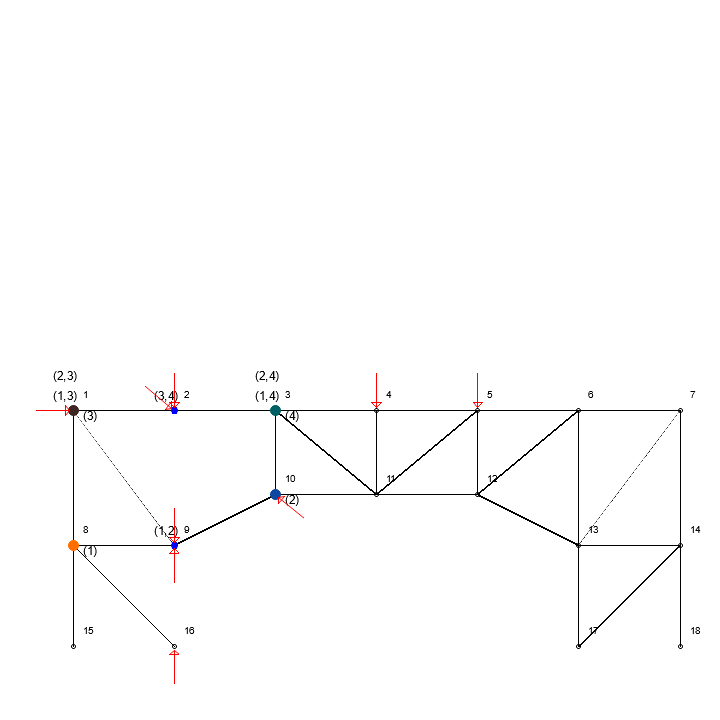
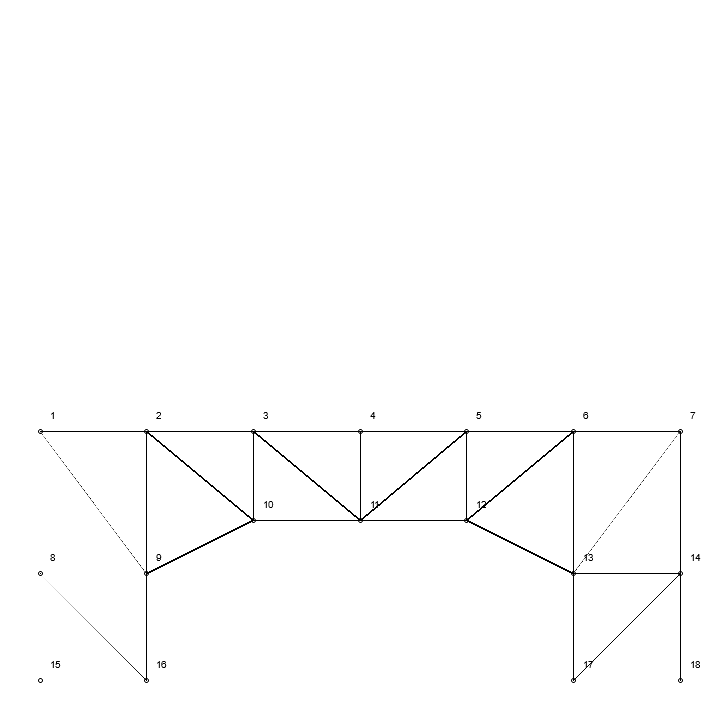
end of traglast

diff --git a/Traglast/src/main.rs b/Traglast/src/main.rs
@@ -1,7 +1,7 @@
 mod visualisation;
 
 use itertools::Itertools;
-use nalgebra::{Dynamic, OMatrix, OVector, SVector};
+use nalgebra::{ComplexField, Dynamic, OMatrix, OVector, SVector};
 use std::collections::hash_map::DefaultHasher;
 use std::fmt;
 use std::hash::{Hash, Hasher};
@@ -13,7 +13,7 @@ type DVectorf64 = OVector<f64, Dynamic>;
 type S2 = SVector<f64, 2>;
 type S3 = SVector<f64, 3>;
 
-const ZERO_THRESHHOLD: f64 = 1e-12;
+const ZERO_THRESHHOLD: f64 = 1e-10;
 
 fn calculate_hash<T: Hash>(t: &T) -> u64 {
     let mut s = DefaultHasher::new();
@@ -169,7 +169,7 @@ impl Pol {
         });
     }
     fn is_at_infinity(&self) -> bool {
-        return self.z.abs() < ZERO_THRESHHOLD;
+        return self.z.abs() < ZERO_THRESHHOLD && self.exists();
     }
     fn get_real_coordinates(&self) -> (f64, f64) {
         if self.z != 0.0 {
@@ -821,17 +821,14 @@ fn polplan(
         let anzahl_pole = rigid.len() - 1;
         // Vector der bekannten Schlussregeln
         if mat.shape().0 == 2 {
-            
-            let p1 = &mat[(0,0)];
-            let p2 = &mat[(0,1)];
-            let p3 = &mat[(1,1)];
+            let p1 = &mat[(0, 0)];
+            let p2 = &mat[(0, 1)];
+            let p3 = &mat[(1, 1)];
             if !Pol::are_collinear(p1, p2, p3) {
-                
                 polplan_join_bodies(0, 1, &mut rigid);
-                
+
                 continue 'se_big_loop;
             }
-            
         }
         let mut regeln = Vec::new();
         let mut already_done_rules = Vec::new();
@@ -843,7 +840,7 @@ fn polplan(
             //println!("{:?}",regeln);
             if regeln.len() <= 0 {
                 //Überprüfung der letzten regel
-                
+
                 // es gibt nur eine
                 break;
             }
@@ -936,6 +933,9 @@ fn kinematik(polplan: &DCoordMat) -> DVectorf64 {
     //let f = filter_erdscheibe_ans_ende(bodies, erdscheibe);
     //println!("{}", polplan);
     let anzahl_pole = polplan.shape().0;
+    if anzahl_pole == 0 {
+        return DVectorf64::zeros(0);
+    }
     // suchen einer geeigneten Spalte (in der keine nicht-bestimmten Pole sind)
     // Annahme, alle Diagonalwerte sind besetzt!
     let mut candidate = 0;
@@ -990,6 +990,12 @@ fn kinematik(polplan: &DCoordMat) -> DVectorf64 {
     b[candidate] = 1.0;
     let lu = matrix.full_piv_lu();
     lu.solve_mut(&mut b);
+    let max = b.max().abs().max(b.min().abs());
+    for i in 0..b.len() {
+        if b[i].abs() / max < ZERO_THRESHHOLD {
+            b[i] = 0.0;
+        }
+    }
 
     return b;
 }
@@ -1045,7 +1051,7 @@ fn displacements(
                 let dir_normal = S2::new(dir.y, -dir.x).normalize();
                 let trans_point = dir_normal * dist * kinematik[i];
 
-                if dist > 1e-12 {
+                if dist > ZERO_THRESHHOLD {
                     result[mapping.map_from(rigid_points[j])] = Point {
                         num: p_num,
                         name: p_name,
@@ -1098,11 +1104,13 @@ fn get_plastic_loading(
         let from_dis = dir.dot(&from_displace);
         let to_dis = dir.dot(&to_displace);
         let streckung = -from_dis + to_dis;
-
+        if streckung.abs() < ZERO_THRESHHOLD {
+            continue;
+        }
         let streckung = streckung.signum();
         let plastic_force = beam.nplast;
-        let load_from = -dir * streckung * plastic_force;
-        let load_to = dir * streckung * plastic_force;
+        let load_from = dir * streckung * plastic_force;
+        let load_to = -dir * streckung * plastic_force;
 
         res.push(Load::new(load_from.x, load_from.y, from.num));
         res.push(Load::new(load_to.x, load_to.y, to.num));
@@ -1118,13 +1126,7 @@ fn get_traglast(
     let mapping = Mapping {
         map: sortPoints(displacements),
     };
-    let mut outer_work = 0.0;
-    for load in outer_loading {
-        let dis = displacements[mapping.map_from(load.point)].to_vector();
-        let loading = load.to_vector();
-        let work = dis.dot(&loading);
-        outer_work += work;
-    }
+    let outer_work = get_outer_work(displacements, outer_loading);
     let mut inner_work = 0.0;
     for load in inner_loading {
         let dis = displacements[mapping.map_from(load.point)].to_vector();
@@ -1132,10 +1134,24 @@ fn get_traglast(
         let work = dis.dot(&loading);
         inner_work += work;
     }
-    if outer_work.abs() < 1e-10 || -inner_work / outer_work < 0.0 {
+    if outer_work.abs() < 1e-10 {
         return f64::MAX;
     }
     return -inner_work / outer_work;
+}
+
+fn get_outer_work(displacements: &Vec<Point>, outer_loading: &Vec<Load>) -> f64 {
+    let mapping = Mapping {
+        map: sortPoints(displacements),
+    };
+    let mut outer_work = 0.0;
+    for load in outer_loading {
+        let dis = displacements[mapping.map_from(load.point)].to_vector();
+        let loading = load.to_vector();
+        let work = dis.dot(&loading);
+        outer_work += work;
+    }
+    return outer_work;
 }
 
 fn traglast(
@@ -1163,12 +1179,29 @@ fn traglast(
     }
 
     let kin = kinematik(&pole).normalize();
+
+    for i in 0..kin.len() {
+        if kin[i] <= ZERO_THRESHHOLD {
+            return f64::MAX;
+        }
+    }
     //println!("{}", kin);
 
     let displace = displacements(&kin, &pole, &rigid, &points);
     //println!("{:?}", displace);
+    let outer_work = get_outer_work(&displace, &loading);
+    let mut kin = kin;
+    if outer_work < 0.0 {
+        kin = -1.0 * kin;
+    }
+    let kin = kin;
+    let displace = displacements(&kin, &pole, &rigid, &points);
 
     let plastic_loads = get_plastic_loading(&points, &displace, &missing_beams);
+
+    if plastic_loads.len() < 2 * 3 {
+        return f64::MAX;
+    }
 
     let traglast = get_traglast(&displace, &loading, &plastic_loads);
     return traglast;
@@ -1182,18 +1215,66 @@ fn main() {
     };
     let mut min = f64::MAX;
     let mut winning = Vec::new();
+    let mut drawing = 1;
     for missing in kant_indezes.iter().combinations(3) {
         let miss = missing.iter().map(|i| **i).collect_vec();
         let traglast = traglast(&v, &erd, &kant, &miss);
         if traglast < 100.0 {
-            println!("{},{},{},{}",miss[0],miss[1],miss[2],traglast);
+            drawing += 1;
+            let mut kant = kant.clone();
+            let missing_beams = remove_beams(&mut kant, &miss);
+            let kant = kant;
+            let loading = get_loading();
+
+            // Erdscheibe hinzufügen
+            let erd = &erd;
+
+            let rigid = get_rigid_bodies(&v, &kant, erd);
+
+            let rigid = filter_erdscheibe_ans_ende(&rigid, erd);
+
+            let (rigid, pole) = polplan(&v, &rigid, erd);
+            //println!("{}", pole);
+
+            let kin = kinematik(&pole).normalize();
+
+            //println!("{}", kin);
+
+            let displace = displacements(&kin, &pole, &rigid, &v);
+            //println!("{:?}", displace);
+            let outer_work = get_outer_work(&displace, &loading);
+            let mut kin = kin;
+            if outer_work < 0.0 {
+                kin = -1.0 * kin;
+            }
+            let kin = kin;
+            let displace = displacements(&kin, &pole, &rigid, &v);
+
+            let plastic_loads = get_plastic_loading(&v, &displace, &missing_beams);
+
+            let traglast = get_traglast(&displace, &loading, &plastic_loads);
+            let mut loading = loading;
+            loading.extend(plastic_loads);
+            let loading = loading;
+
+            visualise(
+                &format!("{}.png", drawing),
+                720,
+                720,
+                &v,
+                &kant,
+                &rigid,
+                &erd,
+                &pole,
+                &loading,
+            );
         }
         if min > traglast {
             min = traglast;
             winning = miss;
         }
     }
-    //let winning = vec![0,1,3];
+    //let winning = vec![7,25,29];
     let mut kant = kant;
     let missing_beams = remove_beams(&mut kant, &winning);
     let kant = kant;
@@ -1224,16 +1305,16 @@ fn main() {
 
     visualise(&"1.png", 720, 720, &v, &kant, &rigid, &erd, &pole, &loading);
 
-    let p = add_displacements(&v, &displace);
-    visualise(
-        &"2.png",
-        720,
-        720,
-        &p,
-        &kant,
-        &rigid,
-        &erd,
-        &DCoordMat::from_element(0, 0, Pol::new_not_existing()),
-        &vec![],
-    );
+    //let p = add_displacements(&v, &displace);
+    //visualise(
+    //    &"2.png",
+    //    720,
+    //    720,
+    //    &p,
+    //    &kant,
+    //    &rigid,
+    //    &erd,
+    //    &DCoordMat::from_element(0, 0, Pol::new_not_existing()),
+    //    &vec![],
+    //);
 }

diff --git a/Traglast/src/visualisation.rs b/Traglast/src/visualisation.rs
@@ -223,8 +223,8 @@ fn draw_pole<DB: DrawingBackend>(
     for i in 0..pole.shape().0 {
         for j in i..pole.shape().1 {
             let (x, y) = pole[(i, j)].get_real_coordinates();
-            let infty = pole[(i, j)].is_at_infinity();
-            if i == j && !infty {
+            let drawable = !pole[(i, j)].is_at_infinity() && pole[(i, j)].exists();
+            if i == j && drawable {
                 drawing_area
                     .draw(
                         &(EmptyElement::at((x, y))
@@ -240,7 +240,7 @@ fn draw_pole<DB: DrawingBackend>(
                             )),
                     )
                     .unwrap();
-            } else if !infty {
+            } else if drawable {
                 let mut offset = 0;
 
                 offset += visited_coords
@@ -249,7 +249,7 @@ fn draw_pole<DB: DrawingBackend>(
                         ((n.0 - x).powi(2) + (n.1 - y).powi(2)).sqrt() < 16e-10
                     })
                     .count();
-
+                println!("{},{}", x, y);
                 visited_coords.push((x, y));
                 drawing_area
                     .draw(
@@ -347,8 +347,8 @@ pub fn visualise(
     draw_points(&root, points);
     draw_beams(&root, points, beams);
     //draw_rigid_bodies(&root, points, rigidbodies, erdscheibe);
-    draw_pole(&root, &polplan);
-    draw_loads(&root, loads, points);
+    //draw_pole(&root, &polplan);
+    //draw_loads(&root, loads, points);
 
     // And if we want SVG backend
     // let backend = SVGBackend::new("output.svg", (800, 600));
